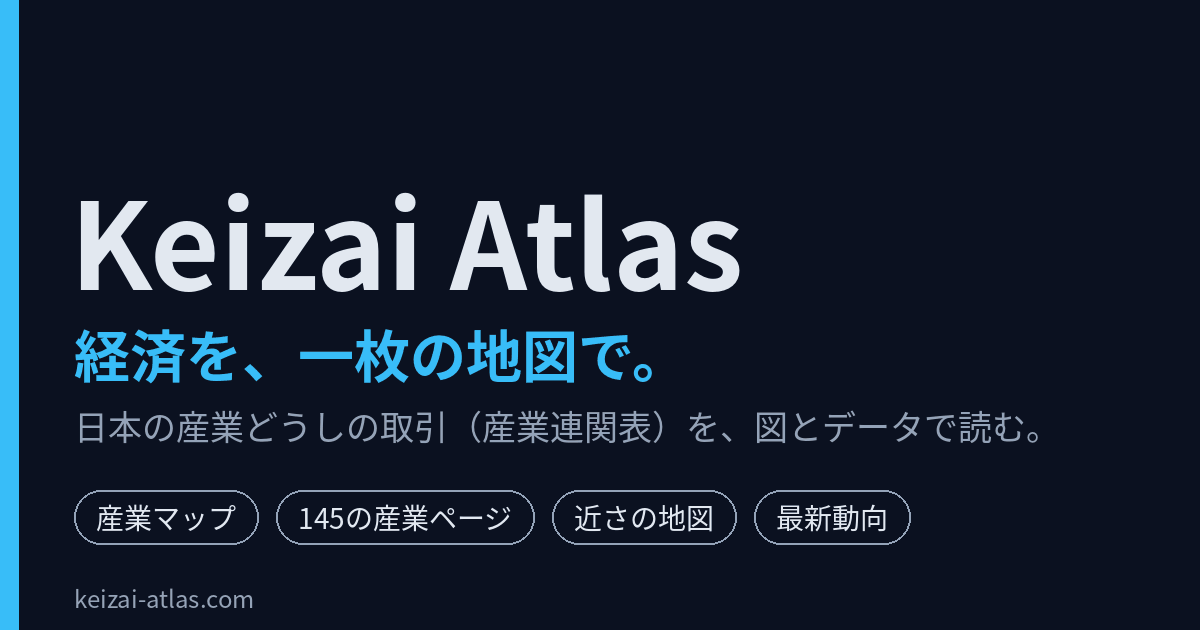
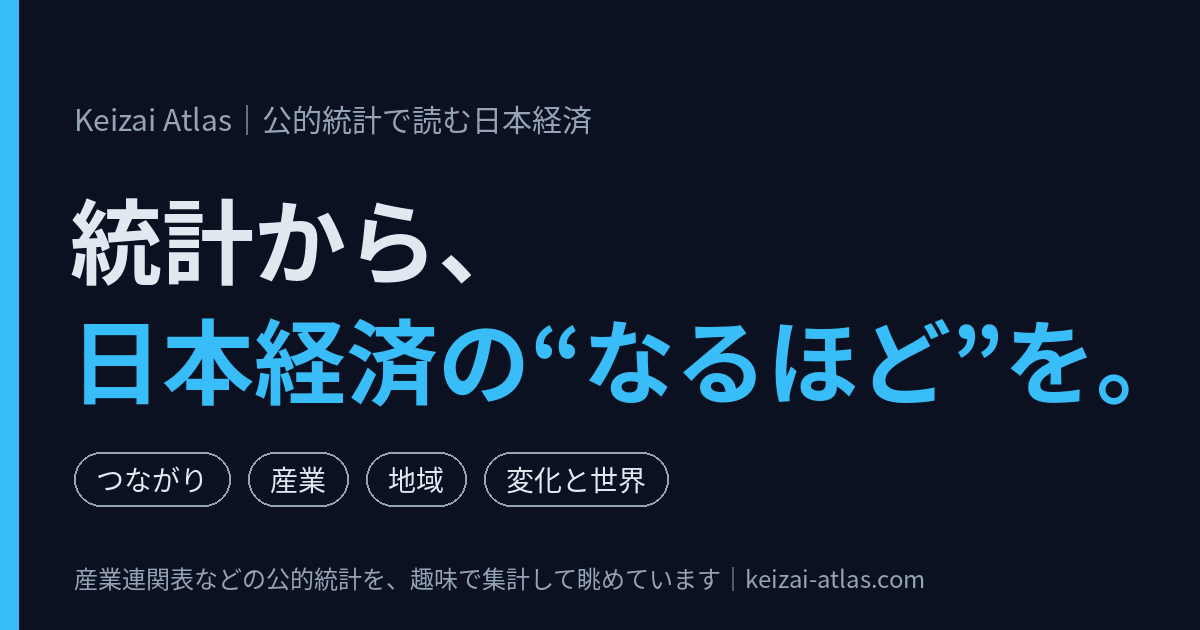
手書きの数値をデータ計算に統一、トップの共有画像を更新 (#43)
Claude-Session: https://claude.ai/code/session_01LjQEtywVAcAdYnRRezMix4

diff --git a/pages/index.html b/pages/index.html
@@ -91,8 +91,8 @@
     </article>
     <article class="ins-slide" role="group" aria-roledescription="スライド" aria-label="4 / 5 世界">
      <p class="ins-lens">世界</p>
-     <h2 class="m-0"><span class="ins-lead">外注に使う割合は、米国の約半分以下</span><span class="ins-big t">米20% / 日8〜9%</span><span class="ins-tail">仕入れに占める専門・事業支援サービスの割合（2022年）</span></h2>
-     <p class="ins-mean">つまり、仕入れの中で専門・事業支援サービスが占める割合は、日本は米国の半分以下です。独16%、韓国は日本と同水準です。</p>
+     <h2 class="m-0"><span class="ins-lead">外注に使う割合は、日本は米国の{{icio_out_half}}</span><span class="ins-big t">米{{icio_out_usa}}% / 日{{icio_out_jpn}}%</span><span class="ins-tail">仕入れに占める専門・事業支援サービスの割合（{{icio_y1}}年）</span></h2>
+     <p class="ins-mean">つまり、産業が仕入れに使うお金のうち、法務・会計・コンサル・広告・人材などの専門サービスに回る割合が、日本は米国より小さいということです。ドイツは{{icio_out_deu}}%、韓国は{{icio_out_kor}}%です。</p>
      <p class="ins-src">出典：OECD ICIO（国際産業連関表）</p>
      <a class="ins-more" href="international.html#outsourcing">詳しく見る →</a>
     </article>
@@ -108,7 +108,7 @@
     <div class="ins-v map" data-v="0"><div style="position:absolute;inset:0"><div id="pm-map" data-prefmap="hero" data-k="35" style="width:100%;height:100%" role="img" aria-label="都道府県を輸送機械の産出額の高さで表した、ゆっくり回る日本の立体地図"></div></div><div class="ins-legend"><span>高さ＝産出額</span><span>色＝集中度</span><i aria-hidden="true"></i></div></div>
     <div class="ins-v" data-v="1"><svg viewBox="0 0 400 300" role="img" aria-label="海外へのデジタル支払いの棒グラフ。{{bp_y0}}年は{{bp_pay0}}兆円、{{bp_y1}}年は{{bp_pay1}}兆円" data-vals="{{bp_pay0}},{{bp_pay1}}" data-base="250" data-maxh="170"><text class="ins-cap" x="40" y="28">海外へのデジタル支払い（兆円）</text><line class="ins-ax" x1="40" y1="250" x2="360" y2="250"/><rect class="ins-bar m b" x="85" y="250" width="90" height="0" rx="4"/><rect class="ins-bar b" x="225" y="250" width="90" height="0" rx="4"/><text class="ins-tv bl" x="130" y="240" text-anchor="middle">{{bp_pay0}}</text><text class="ins-tv bl" x="270" y="240" text-anchor="middle">{{bp_pay1}}</text><text class="ins-tx" x="130" y="272" text-anchor="middle">{{bp_y0}}年</text><text class="ins-tx" x="270" y="272" text-anchor="middle">{{bp_y1}}年</text></svg></div>
     <div class="ins-v" data-v="2"><svg viewBox="0 0 400 300" role="img" aria-label="原油の輸入の棒グラフ。{{tr_y0}}年を100として、{{tr_y1}}年の量は{{q_crude}}%、円建て単価は約{{p_crude}}倍" data-q="{{q_crude}}" data-p="{{p_crude}}" data-ref="100" data-base="250" data-maxh="170"><text class="ins-cap" x="40" y="28">原油の輸入（{{tr_y0}}年＝100）</text><line class="ins-ax" x1="40" y1="250" x2="360" y2="250"/><line class="ins-ref rf" x1="40" x2="360" y1="250" y2="250"/><text class="ins-cap rt" x="360" y="240" text-anchor="end">{{tr_y0}}年</text><rect class="ins-bar m b" x="85" y="250" width="90" height="0" rx="4"/><rect class="ins-bar b" x="225" y="250" width="90" height="0" rx="4"/><text class="ins-tv bl" x="130" y="240" text-anchor="middle">{{q_crude}}%</text><text class="ins-tv bl" x="270" y="240" text-anchor="middle">約{{p_crude}}倍</text><text class="ins-tx" x="130" y="272" text-anchor="middle">輸入量</text><text class="ins-tx" x="270" y="272" text-anchor="middle">円建ての単価</text></svg></div>
-    <div class="ins-v" data-v="3"><svg viewBox="0 0 400 300" role="img" aria-label="仕入れに占める専門・事業支援サービスの割合（2022年）。米国20%、日本8〜9%" data-vals="20,8.5" data-dir="h"><text class="ins-cap" x="30" y="40">専門・事業支援サービスの割合（2022年）</text><line class="ins-ax" x1="90" y1="70" x2="90" y2="230"/><text class="ins-tx" x="76" y="123" text-anchor="end">米国</text><text class="ins-tx" x="76" y="193" text-anchor="end">日本</text><rect class="ins-bar m b" x="90" y="100" width="0" height="40" rx="4"/><rect class="ins-bar b" x="90" y="170" width="0" height="40" rx="4"/><text class="ins-tv bl" x="100" y="128">20%</text><text class="ins-tv bl" x="100" y="198">8〜9%</text></svg></div>
+    <div class="ins-v" data-v="3"><svg viewBox="0 0 400 300" role="img" aria-label="仕入れに占める専門・事業支援サービスの割合（{{icio_y1}}年）。米国{{icio_out_usa}}%、日本{{icio_out_jpn}}%" data-vals="{{icio_out_usa1}},{{icio_out_jpn1}}" data-dir="h"><text class="ins-cap" x="30" y="40">専門・事業支援サービスの割合（{{icio_y1}}年）</text><line class="ins-ax" x1="90" y1="70" x2="90" y2="230"/><text class="ins-tx" x="76" y="123" text-anchor="end">米国</text><text class="ins-tx" x="76" y="193" text-anchor="end">日本</text><rect class="ins-bar m b" x="90" y="100" width="0" height="40" rx="4"/><rect class="ins-bar b" x="90" y="170" width="0" height="40" rx="4"/><text class="ins-tv bl" x="100" y="128">{{icio_out_usa}}%</text><text class="ins-tv bl" x="100" y="198">{{icio_out_jpn}}%</text></svg></div>
     <div class="ins-v net" data-v="4"><div id="ins-net" style="position:absolute;inset:0" role="img" aria-label="37の産業を円、取引を線で表したネットワーク。光っている円が、取引の中心にある産業"></div><div class="ins-legend"><span>円＝産業（大きさ＝生産額）</span><span>光る線＝その産業から出る取引</span></div></div>
    </div>
   </div>
@@ -140,8 +140,8 @@
  <a href="latest.html#digital-pay" class="card bg-base-100 border border-base-300 hover:border-primary transition"><div class="card-body gap-1 p-5"><h3 class="font-bold leading-snug">海外へのデジタル支払い</h3><p class="text-xl text-primary"><b>{{bp_pay0}}兆円→{{bp_pay1}}兆円</b></p><p class="text-sm text-base-content/80">{{bp_y0}}年→{{bp_y1}}年。通信・コンピュータ・情報サービスの国際収支（支払い）。約{{bp_pay_x}}倍です。</p><p class="text-xs text-base-content/50 mt-1">出典：国際収支 →</p></div></a>
  <a href="latest.html#energy-import" class="card bg-base-100 border border-base-300 hover:border-primary transition"><div class="card-body gap-1 p-5"><h3 class="font-bold leading-snug">エネルギー輸入：量は減り、単価は上がった</h3><p class="text-xl text-primary"><b>原油の輸入量 {{q_crude}}%</b></p><p class="text-sm text-base-content/80">{{tr_y0}}年比（{{tr_y1}}年）。円建ての単価は約{{p_crude}}倍で、輸入額の増減の大半は単価の動きです。</p><p class="text-xs text-base-content/50 mt-1">出典：貿易統計 →</p></div></a>
  <a href="latest.html#activity" class="card bg-base-100 border border-base-300 hover:border-primary transition"><div class="card-body gap-1 p-5"><h3 class="font-bold leading-snug">技術サービス：価格は上がり、量は減った</h3><p class="text-xl text-primary"><b>価格 {{sppi_tech_p0}}%、活動量 {{meti_tech_p0}}%</b></p><p class="text-sm text-base-content/80">{{base}}→{{sppi_last}}。需要に供給が追いつかない状態の可能性があります（仮説）。</p><p class="text-xs text-base-content/50 mt-1">出典：SPPI・第3次産業活動指数 →</p></div></a>
- <a href="international.html#outsourcing" class="card bg-base-100 border border-base-300 hover:border-primary transition"><div class="card-body gap-1 p-5"><h3 class="font-bold leading-snug">外注に使う割合は、米国の約半分以下</h3><p class="text-xl text-primary"><b>米20% / 日8〜9%</b></p><p class="text-sm text-base-content/80">仕入れに占める専門・事業支援サービスの割合（2022年）。独16%、韓国は日本と同水準です。</p><p class="text-xs text-base-content/50 mt-1">出典：OECD ICIO →</p></div></a>
- <a href="international.html#digital" class="card bg-base-100 border border-base-300 hover:border-primary transition"><div class="card-body gap-1 p-5"><h3 class="font-bold leading-snug">デジタルの仕入れは、輸入頼みが進んだ</h3><p class="text-xl text-primary"><b>輸入比率 8.7%→13.0%</b></p><p class="text-sm text-base-content/80">日本、2016年→2022年。デジタル関連の仕入れのうち、輸入の割合です。</p><p class="text-xs text-base-content/50 mt-1">出典：OECD ICIO →</p></div></a>
+ <a href="international.html#outsourcing" class="card bg-base-100 border border-base-300 hover:border-primary transition"><div class="card-body gap-1 p-5"><h3 class="font-bold leading-snug">外注に使う割合は、日本は米国の{{icio_out_half}}</h3><p class="text-xl text-primary"><b>米{{icio_out_usa}}% / 日{{icio_out_jpn}}%</b></p><p class="text-sm text-base-content/80">仕入れに占める専門・事業支援サービスの割合（{{icio_y1}}年）。ドイツ{{icio_out_deu}}%、韓国{{icio_out_kor}}%です。</p><p class="text-xs text-base-content/50 mt-1">出典：OECD ICIO →</p></div></a>
+ <a href="international.html#digital" class="card bg-base-100 border border-base-300 hover:border-primary transition"><div class="card-body gap-1 p-5"><h3 class="font-bold leading-snug">デジタルの仕入れは、輸入頼みが進んだ</h3><p class="text-xl text-primary"><b>輸入比率 {{icio_digimp0}}%→{{icio_digimp1}}%</b></p><p class="text-sm text-base-content/80">日本、{{icio_y0}}年→{{icio_y1}}年。デジタル関連の仕入れのうち、輸入の割合です。</p><p class="text-xs text-base-content/50 mt-1">出典：OECD ICIO →</p></div></a>
  <a href="similarity.html#cohesion" class="card bg-base-100 border border-base-300 hover:border-primary transition"><div class="card-body gap-1 p-5"><h3 class="font-bold leading-snug">「裏方」候補の4グループ、取引の相手が似ている</h3><p class="text-xl text-primary"><b>4つとも似た者どうし</b></p><p class="text-sm text-base-content/80">取引の相手の似かたをランダムと比べると、どれもずっと近い結果でした。うち1つは、近さを見て組み替えたものです。</p><p class="text-xs text-base-content/50 mt-1">出典：産業連関表 →</p></div></a>
 </div></section>
 <section class="max-w-5xl mx-auto px-4 mt-10"><div role="alert" class="alert alert-warning"><span><b>ご注意：</b>ストーリー・グループは筆者の<b>仮説</b>で、統計から確定できる事実ではありません。2022年値は延長産業連関表（推計表）で、基本表とは定義が異なります。</span></div></section>

diff --git a/site/index.html b/site/index.html
@@ -102,8 +102,8 @@
     </article>
     <article class="ins-slide" role="group" aria-roledescription="スライド" aria-label="4 / 5 世界">
      <p class="ins-lens">世界</p>
-     <h2 class="m-0"><span class="ins-lead">外注に使う割合は、米国の約半分以下</span><span class="ins-big t">米20% / 日8〜9%</span><span class="ins-tail">仕入れに占める専門・事業支援サービスの割合（2022年）</span></h2>
-     <p class="ins-mean">つまり、仕入れの中で専門・事業支援サービスが占める割合は、日本は米国の半分以下です。独16%、韓国は日本と同水準です。</p>
+     <h2 class="m-0"><span class="ins-lead">外注に使う割合は、日本は米国の半分以下</span><span class="ins-big t">米20% / 日8%</span><span class="ins-tail">仕入れに占める専門・事業支援サービスの割合（2022年）</span></h2>
+     <p class="ins-mean">つまり、産業が仕入れに使うお金のうち、法務・会計・コンサル・広告・人材などの専門サービスに回る割合が、日本は米国より小さいということです。ドイツは16%、韓国は8%です。</p>
      <p class="ins-src">出典：OECD <a class="underline decoration-dotted underline-offset-4 hover:text-primary" href="glossary.html#icio">ICIO</a>（国際産業連関表）</p>
      <a class="ins-more" href="international.html#outsourcing">詳しく見る →</a>
     </article>
@@ -119,7 +119,7 @@
     <div class="ins-v map" data-v="0"><div style="position:absolute;inset:0"><div id="pm-map" data-prefmap="hero" data-k="35" style="width:100%;height:100%" role="img" aria-label="都道府県を輸送機械の産出額の高さで表した、ゆっくり回る日本の立体地図"></div></div><div class="ins-legend"><span>高さ＝産出額</span><span>色＝集中度</span><i aria-hidden="true"></i></div></div>
     <div class="ins-v" data-v="1"><svg viewBox="0 0 400 300" role="img" aria-label="海外へのデジタル支払いの棒グラフ。2019年は2.4兆円、2025年は4.6兆円" data-vals="2.4,4.6" data-base="250" data-maxh="170"><text class="ins-cap" x="40" y="28">海外へのデジタル支払い（兆円）</text><line class="ins-ax" x1="40" y1="250" x2="360" y2="250"/><rect class="ins-bar m b" x="85" y="250" width="90" height="0" rx="4"/><rect class="ins-bar b" x="225" y="250" width="90" height="0" rx="4"/><text class="ins-tv bl" x="130" y="240" text-anchor="middle">2.4</text><text class="ins-tv bl" x="270" y="240" text-anchor="middle">4.6</text><text class="ins-tx" x="130" y="272" text-anchor="middle">2019年</text><text class="ins-tx" x="270" y="272" text-anchor="middle">2025年</text></svg></div>
     <div class="ins-v" data-v="2"><svg viewBox="0 0 400 300" role="img" aria-label="原油の輸入の棒グラフ。2019年を100として、2025年の量は−21%、円建て単価は約1.5倍" data-q="−21" data-p="1.5" data-ref="100" data-base="250" data-maxh="170"><text class="ins-cap" x="40" y="28">原油の輸入（2019年＝100）</text><line class="ins-ax" x1="40" y1="250" x2="360" y2="250"/><line class="ins-ref rf" x1="40" x2="360" y1="250" y2="250"/><text class="ins-cap rt" x="360" y="240" text-anchor="end">2019年</text><rect class="ins-bar m b" x="85" y="250" width="90" height="0" rx="4"/><rect class="ins-bar b" x="225" y="250" width="90" height="0" rx="4"/><text class="ins-tv bl" x="130" y="240" text-anchor="middle">−21%</text><text class="ins-tv bl" x="270" y="240" text-anchor="middle">約1.5倍</text><text class="ins-tx" x="130" y="272" text-anchor="middle">輸入量</text><text class="ins-tx" x="270" y="272" text-anchor="middle">円建ての単価</text></svg></div>
-    <div class="ins-v" data-v="3"><svg viewBox="0 0 400 300" role="img" aria-label="仕入れに占める専門・事業支援サービスの割合（2022年）。米国20%、日本8〜9%" data-vals="20,8.5" data-dir="h"><text class="ins-cap" x="30" y="40">専門・事業支援サービスの割合（2022年）</text><line class="ins-ax" x1="90" y1="70" x2="90" y2="230"/><text class="ins-tx" x="76" y="123" text-anchor="end">米国</text><text class="ins-tx" x="76" y="193" text-anchor="end">日本</text><rect class="ins-bar m b" x="90" y="100" width="0" height="40" rx="4"/><rect class="ins-bar b" x="90" y="170" width="0" height="40" rx="4"/><text class="ins-tv bl" x="100" y="128">20%</text><text class="ins-tv bl" x="100" y="198">8〜9%</text></svg></div>
+    <div class="ins-v" data-v="3"><svg viewBox="0 0 400 300" role="img" aria-label="仕入れに占める専門・事業支援サービスの割合（2022年）。米国20%、日本8%" data-vals="20.4,8.2" data-dir="h"><text class="ins-cap" x="30" y="40">専門・事業支援サービスの割合（2022年）</text><line class="ins-ax" x1="90" y1="70" x2="90" y2="230"/><text class="ins-tx" x="76" y="123" text-anchor="end">米国</text><text class="ins-tx" x="76" y="193" text-anchor="end">日本</text><rect class="ins-bar m b" x="90" y="100" width="0" height="40" rx="4"/><rect class="ins-bar b" x="90" y="170" width="0" height="40" rx="4"/><text class="ins-tv bl" x="100" y="128">20%</text><text class="ins-tv bl" x="100" y="198">8%</text></svg></div>
     <div class="ins-v net" data-v="4"><div id="ins-net" style="position:absolute;inset:0" role="img" aria-label="37の産業を円、取引を線で表したネットワーク。光っている円が、取引の中心にある産業"></div><div class="ins-legend"><span>円＝産業（大きさ＝生産額）</span><span>光る線＝その産業から出る取引</span></div></div>
    </div>
   </div>
@@ -151,7 +151,7 @@
  <a href="latest.html#digital-pay" class="card bg-base-100 border border-base-300 hover:border-primary transition"><div class="card-body gap-1 p-5"><h3 class="font-bold leading-snug">海外へのデジタル支払い</h3><p class="text-xl text-primary"><b>2.4兆円→4.6兆円</b></p><p class="text-sm text-base-content/80">2019年→2025年。通信・コンピュータ・情報サービスの国際収支（支払い）。約1.9倍です。</p><p class="text-xs text-base-content/50 mt-1">出典：国際収支 →</p></div></a>
  <a href="latest.html#energy-import" class="card bg-base-100 border border-base-300 hover:border-primary transition"><div class="card-body gap-1 p-5"><h3 class="font-bold leading-snug">エネルギー輸入：量は減り、単価は上がった</h3><p class="text-xl text-primary"><b>原油の輸入量 −21%</b></p><p class="text-sm text-base-content/80">2019年比（2025年）。円建ての単価は約1.5倍で、輸入額の増減の大半は単価の動きです。</p><p class="text-xs text-base-content/50 mt-1">出典：貿易統計 →</p></div></a>
  <a href="latest.html#activity" class="card bg-base-100 border border-base-300 hover:border-primary transition"><div class="card-body gap-1 p-5"><h3 class="font-bold leading-snug">技術サービス：価格は上がり、量は減った</h3><p class="text-xl text-primary"><b>価格 +21%、活動量 −5%</b></p><p class="text-sm text-base-content/80">2022年12月→2026年8月。需要に供給が追いつかない状態の可能性があります（仮説）。</p><p class="text-xs text-base-content/50 mt-1">出典：SPPI・第3次産業活動指数 →</p></div></a>
- <a href="international.html#outsourcing" class="card bg-base-100 border border-base-300 hover:border-primary transition"><div class="card-body gap-1 p-5"><h3 class="font-bold leading-snug">外注に使う割合は、米国の約半分以下</h3><p class="text-xl text-primary"><b>米20% / 日8〜9%</b></p><p class="text-sm text-base-content/80">仕入れに占める専門・事業支援サービスの割合（2022年）。独16%、韓国は日本と同水準です。</p><p class="text-xs text-base-content/50 mt-1">出典：OECD ICIO →</p></div></a>
+ <a href="international.html#outsourcing" class="card bg-base-100 border border-base-300 hover:border-primary transition"><div class="card-body gap-1 p-5"><h3 class="font-bold leading-snug">外注に使う割合は、日本は米国の半分以下</h3><p class="text-xl text-primary"><b>米20% / 日8%</b></p><p class="text-sm text-base-content/80">仕入れに占める専門・事業支援サービスの割合（2022年）。ドイツ16%、韓国8%です。</p><p class="text-xs text-base-content/50 mt-1">出典：OECD ICIO →</p></div></a>
  <a href="international.html#digital" class="card bg-base-100 border border-base-300 hover:border-primary transition"><div class="card-body gap-1 p-5"><h3 class="font-bold leading-snug">デジタルの仕入れは、輸入頼みが進んだ</h3><p class="text-xl text-primary"><b>輸入比率 8.7%→13.0%</b></p><p class="text-sm text-base-content/80">日本、2016年→2022年。デジタル関連の仕入れのうち、輸入の割合です。</p><p class="text-xs text-base-content/50 mt-1">出典：OECD ICIO →</p></div></a>
  <a href="similarity.html#cohesion" class="card bg-base-100 border border-base-300 hover:border-primary transition"><div class="card-body gap-1 p-5"><h3 class="font-bold leading-snug">「裏方」候補の4グループ、取引の相手が似ている</h3><p class="text-xl text-primary"><b>4つとも似た者どうし</b></p><p class="text-sm text-base-content/80">取引の相手の似かたをランダムと比べると、どれもずっと近い結果でした。うち1つは、近さを見て組み替えたものです。</p><p class="text-xs text-base-content/50 mt-1">出典：産業連関表 →</p></div></a>
 </div></section>

diff --git a/pages/international.html b/pages/international.html
@@ -5,16 +5,16 @@
 <section id="outsourcing" class="space-y-3 scroll-mt-20"><h2 class="text-2xl font-bold">1. 外注（専門・事業支援サービス）</h2>
 <p class="text-base-content/80">専門・科学技術サービス（法務・会計・コンサル・研究開発・広告など）と、事業支援サービス（人材派遣・警備・清掃・レンタルなど）の仕入れ比率。</p>
 <div class="card bg-base-100 border border-base-300"><div class="card-body"><div id="c-out"></div></div></div>
-<p class="text-sm text-base-content/80"><b>読み取り:</b> 米国は約20%、ドイツ約16%に対し、日本は8〜9%、韓国も同水準、中国は5〜6%です。日本は「外注にお金が流れる国」とは言えず、国内版で大きく見える対事業所サービスは、ICIOでは定義が狭いために小さく出ている可能性があります（仮説）。</p></section>
+<p class="text-sm text-base-content/80"><b>読み取り:</b> {{icio_y1}}年は、米国{{icio_out_usa}}%、ドイツ{{icio_out_deu}}%に対し、日本は{{icio_out_jpn}}%、韓国{{icio_out_kor}}%、中国{{icio_out_chn}}%です。{{icio_y0}}〜{{icio_y1}}年を通じて、日本は{{icio_out_jpn_rng}}%の範囲でした。日本は「外注にお金が流れる国」とは言えず、国内版で大きく見える対事業所サービスは、ICIOでは定義が狭いために小さく出ている可能性があります（仮説）。</p></section>
 <section id="digital" class="space-y-3 scroll-mt-20"><h2 class="text-2xl font-bold">2. デジタル（情報通信・情報サービス）</h2>
 <p class="text-base-content/80">出版・放送、通信、情報サービス（IT・クラウド等）の仕入れ比率と、そのうち輸入の比率。</p>
 <div class="grid gap-4 md:grid-cols-2"><div class="card bg-base-100 border border-base-300"><div class="card-body"><h3 class="font-bold">仕入れに占める割合（%）</h3><div id="c-dig"></div></div></div>
 <div class="card bg-base-100 border border-base-300"><div class="card-body"><h3 class="font-bold">そのうち輸入の割合（%）</h3><div id="c-digimp"></div></div></div></div>
-<p class="text-sm text-base-content/80"><b>読み取り:</b> 日本のデジタル仕入れ比率は2016〜2022年でほぼ横ばい（2020年は分母の縮小で一時的に高く出る）ですが、<b>輸入比率は8.7%から13.0%に上昇</b>しました。韓国・ドイツも上昇しています。海外のクラウドやソフトウェアへの支払いが増えた可能性があります（仮説）。2023年以降の生成AIの影響は、この表には入っていません。</p></section>
+<p class="text-sm text-base-content/80"><b>読み取り:</b> 日本のデジタル仕入れ比率は{{icio_y0}}〜{{icio_y1}}年でほぼ横ばい（2020年は分母の縮小で一時的に高く出る）ですが、<b>輸入比率は{{icio_digimp0}}%から{{icio_digimp1}}%に上昇</b>しました。韓国・ドイツも上昇しています。海外のクラウドやソフトウェアへの支払いが増えた可能性があります（仮説）。2023年以降の生成AIの影響は、この表には入っていません。</p></section>
 <section id="energy" class="space-y-3 scroll-mt-20"><h2 class="text-2xl font-bold">3. エネルギー（石炭・石油ガス・石油製品・電気ガス）</h2>
 <div class="grid gap-4 md:grid-cols-2"><div class="card bg-base-100 border border-base-300"><div class="card-body"><h3 class="font-bold">仕入れに占める割合（%）</h3><div id="c-en"></div></div></div>
 <div class="card bg-base-100 border border-base-300"><div class="card-body"><h3 class="font-bold">そのうち輸入の割合（%）</h3><div id="c-enimp"></div></div></div></div>
-<p class="text-sm text-base-content/80"><b>読み取り:</b> 2022年は、価格高騰でエネルギーの比率が各国で跳ね上がりました（日本 7.3%→11.5%、ドイツ 5.1%→8.7%、2020→2022年）。日本の輸入比率は31%→47%と急上昇し、米国（14%）・中国（15%）との差が開きました。ドイツ（35%）は日本より低い水準です。</p></section>
+<p class="text-sm text-base-content/80"><b>読み取り:</b> {{icio_y1}}年は、価格高騰でエネルギーの比率が各国で跳ね上がりました（日本 {{icio_en_jpn0}}%→{{icio_en_jpn1}}%、ドイツ {{icio_en_deu0}}%→{{icio_en_deu1}}%、{{icio_en_y0}}→{{icio_y1}}年）。日本の輸入比率は{{icio_enimp_jpn0}}%→{{icio_enimp_jpn}}%と急上昇し、米国（{{icio_enimp_usa}}%）・中国（{{icio_enimp_chn}}%）との差が開きました。ドイツ（{{icio_enimp_deu}}%）は日本より低い水準です。</p></section>
 <section class="text-sm text-base-content/70 space-y-1"><h2 class="text-lg font-bold text-base-content">方法と注意</h2>
 <ul class="list-disc pl-6"><li>出典：OECD Inter-Country Input-Output (ICIO) Tables, 2025 edition（regular ICIO）を筆者が集計。加工・解釈は筆者によるもので、OECDが作成・保証したものではありません。</li>
 <li>各国の産業（50部門）の列に対する、全世界の売り手からの仕入れを合計し、部門グループごとの割合を計算しています。名目値のため、価格変動の影響を含みます。</li>

diff --git a/pipeline/explorer_template.html b/pipeline/explorer_template.html
@@ -300,11 +300,15 @@ function renderOverview(){
   let ins="";
   if(CH()){
     const top=D.edges.filter(e=>e.v20!=null&&e.v22!=null).sort((a,b)=>(b.v22-b.v20)-(a.v22-a.v20)).slice(0,3);
-    ins=`<div class="story">2020→2022年に最も増えた取引は、${top.map(e=>`<a href="#" data-e="${D.edges.indexOf(e)}">${N[e.s].name}→${N[e.t].name}</a>(${fmt(e.v20,1)}→${fmt(e.v22,1)}兆円)`).join("、")}。エネルギーの値上がりが目立ちます。</div>
-    <div class="story">2022年の名目は2020年比で+15.5%、価格の影響を除いた実質では+8.0%です。値上がりが大きかったのは石油・石炭製品、鉱業、電気・ガスなどです。<small>2021・2022年は経産省の延長表(推計)。2023年以降、生成AIの実用化などは含みません。</small></div>`;
+    const EN=["06","21","46"], enHit=top.some(e=>EN.includes(e.s)||EN.includes(e.t));   // 鉱業・石油石炭製品・電気ガス
+    const W=D.nodes.filter(n=>n.o20x&&n.o22), s20=W.reduce((a,n)=>a+n.o20x,0), s22=W.reduce((a,n)=>a+n.o22,0);
+    const sReal=D.nodes.filter(n=>n.o20x&&n.rg!=null).reduce((a,n)=>a+n.o20x*(1+n.rg/100),0);
+    const pcTop=D.nodes.filter(n=>n.pc!=null).sort((a,b)=>b.pc-a.pc).slice(0,3).map(n=>n.name).join("、");
+    ins=`<div class="story">2020→2022年に最も増えた取引は、${top.map(e=>`<a href="#" data-e="${D.edges.indexOf(e)}">${N[e.s].name}→${N[e.t].name}</a>(${fmt(e.v20,1)}→${fmt(e.v22,1)}兆円)`).join("、")}。${enHit?"エネルギー関連の取引が含まれています。":""}</div>
+    <div class="story">2022年の生産額の合計は、2020年比で名目${sgn((s22/s20-1)*100,1)}%、価格の影響を除いた実質では${sgn((sReal/s20-1)*100,1)}%です。値上がりが大きかったのは${pcTop}などです。<small>2021・2022年は経産省の延長表(推計)。2023年以降、生成AIの実用化などは含みません。</small></div>`;
   } else {
     const big=D.nodes.filter(n=>n.out>=15).sort((a,b)=>b.cagr-a.cagr);
-    ins=`<div class="story">上位20本の取引のうち<b>${hub[1]}本</b>が「${N[hub[0]].name}」から出ています。人材・リース・警備・広告などの『外注の受け皿』が経済の中心にいます。</div>
+    ins=`<div class="story">上位20本の取引のうち<b>${hub[1]}本</b>が「${N[hub[0]].name}」から出ています。${hub[0]==="66"?"人材・リース・警備・広告などの『外注の受け皿』が、取引の中心にいます。":""}</div>
     <div class="story">生産額15兆円以上の部門で、2011→2020年の実質成長が大きいのは:${big.slice(0,4).map(n=>`<a href="#" data-n="${n.id}">${n.name}(${sgn(n.cagr)}%)</a>`).join("、")}。</div>`;
   }
   $("panel").innerHTML=`<h2>全体の見方</h2>

diff --git a/site/explorer.html b/site/explorer.html
@@ -313,11 +313,15 @@ function renderOverview(){
   let ins="";
   if(CH()){
     const top=D.edges.filter(e=>e.v20!=null&&e.v22!=null).sort((a,b)=>(b.v22-b.v20)-(a.v22-a.v20)).slice(0,3);
-    ins=`<div class="story">2020→2022年に最も増えた取引は、${top.map(e=>`<a href="#" data-e="${D.edges.indexOf(e)}">${N[e.s].name}→${N[e.t].name}</a>(${fmt(e.v20,1)}→${fmt(e.v22,1)}兆円)`).join("、")}。エネルギーの値上がりが目立ちます。</div>
-    <div class="story">2022年の名目は2020年比で+15.5%、価格の影響を除いた実質では+8.0%です。値上がりが大きかったのは石油・石炭製品、鉱業、電気・ガスなどです。<small>2021・2022年は経産省の延長表(推計)。2023年以降、生成AIの実用化などは含みません。</small></div>`;
+    const EN=["06","21","46"], enHit=top.some(e=>EN.includes(e.s)||EN.includes(e.t));   // 鉱業・石油石炭製品・電気ガス
+    const W=D.nodes.filter(n=>n.o20x&&n.o22), s20=W.reduce((a,n)=>a+n.o20x,0), s22=W.reduce((a,n)=>a+n.o22,0);
+    const sReal=D.nodes.filter(n=>n.o20x&&n.rg!=null).reduce((a,n)=>a+n.o20x*(1+n.rg/100),0);
+    const pcTop=D.nodes.filter(n=>n.pc!=null).sort((a,b)=>b.pc-a.pc).slice(0,3).map(n=>n.name).join("、");
+    ins=`<div class="story">2020→2022年に最も増えた取引は、${top.map(e=>`<a href="#" data-e="${D.edges.indexOf(e)}">${N[e.s].name}→${N[e.t].name}</a>(${fmt(e.v20,1)}→${fmt(e.v22,1)}兆円)`).join("、")}。${enHit?"エネルギー関連の取引が含まれています。":""}</div>
+    <div class="story">2022年の生産額の合計は、2020年比で名目${sgn((s22/s20-1)*100,1)}%、価格の影響を除いた実質では${sgn((sReal/s20-1)*100,1)}%です。値上がりが大きかったのは${pcTop}などです。<small>2021・2022年は経産省の延長表(推計)。2023年以降、生成AIの実用化などは含みません。</small></div>`;
   } else {
     const big=D.nodes.filter(n=>n.out>=15).sort((a,b)=>b.cagr-a.cagr);
-    ins=`<div class="story">上位20本の取引のうち<b>${hub[1]}本</b>が「${N[hub[0]].name}」から出ています。人材・リース・警備・広告などの『外注の受け皿』が経済の中心にいます。</div>
+    ins=`<div class="story">上位20本の取引のうち<b>${hub[1]}本</b>が「${N[hub[0]].name}」から出ています。${hub[0]==="66"?"人材・リース・警備・広告などの『外注の受け皿』が、取引の中心にいます。":""}</div>
     <div class="story">生産額15兆円以上の部門で、2011→2020年の実質成長が大きいのは:${big.slice(0,4).map(n=>`<a href="#" data-n="${n.id}">${n.name}(${sgn(n.cagr)}%)</a>`).join("、")}。</div>`;
   }
   $("panel").innerHTML=`<h2>全体の見方</h2>

diff --git a/site/international.html b/site/international.html
@@ -16,7 +16,7 @@
 <section id="outsourcing" class="space-y-3 scroll-mt-20"><h2 class="text-2xl font-bold">1. 外注（専門・事業支援サービス）</h2>
 <p class="text-base-content/80">専門・科学技術サービス（法務・会計・コンサル・研究開発・広告など）と、事業支援サービス（人材派遣・警備・清掃・レンタルなど）の仕入れ比率。</p>
 <div class="card bg-base-100 border border-base-300"><div class="card-body"><div id="c-out"></div></div></div>
-<p class="text-sm text-base-content/80"><b>読み取り:</b> 米国は約20%、ドイツ約16%に対し、日本は8〜9%、韓国も同水準、中国は5〜6%です。日本は「外注にお金が流れる国」とは言えず、国内版で大きく見える対事業所サービスは、ICIOでは定義が狭いために小さく出ている可能性があります（仮説）。</p></section>
+<p class="text-sm text-base-content/80"><b>読み取り:</b> 2022年は、米国20%、ドイツ16%に対し、日本は8%、韓国8%、中国6%です。2016〜2022年を通じて、日本は8〜10%の範囲でした。日本は「外注にお金が流れる国」とは言えず、国内版で大きく見える対事業所サービスは、ICIOでは定義が狭いために小さく出ている可能性があります（仮説）。</p></section>
 <section id="digital" class="space-y-3 scroll-mt-20"><h2 class="text-2xl font-bold">2. デジタル（情報通信・情報サービス）</h2>
 <p class="text-base-content/80">出版・放送、通信、情報サービス（IT・クラウド等）の仕入れ比率と、そのうち輸入の比率。</p>
 <div class="grid gap-4 md:grid-cols-2"><div class="card bg-base-100 border border-base-300"><div class="card-body"><h3 class="font-bold">仕入れに占める割合（%）</h3><div id="c-dig"></div></div></div>

diff --git a/scripts/derive.py b/scripts/derive.py
@@ -48,6 +48,23 @@ def metrics():
         M[f"q_{key}"]=sgn(t[f"{key}_q_idx"][-1]-100,0); M[f"p_{key}"]=f"{F(t[f'{key}_p_idx'][-1]/100,1)}"
     ytd=t["fuel_ytd"]; M["ytd_m"]=ytd["last_month"]; M["ytd_1"],M["ytd_0"]=f"{F(ytd['v2026'],1)}",f"{F(ytd['v2025'],1)}"; M["ytd_pct"]=f"{F((ytd['v2026']/ytd['v2025']-1)*100,0)}"
     M["pc_0"],M["pc_1"]=f"{F(t['pc_v'][0],1)}",f"{F(t['pc_v'][-1],1)}"; M["pc_pct"]=sgn((t['pc_v'][-1]/t['pc_v'][0]-1)*100,0); M["pc_px"]=f"{F(t['pc_p_idx'][-1]/100,1)}"
+    # --- 6. OECD ICIO(5か国)
+    import csv as _csv
+    rows=list(_csv.DictReader(open(R/"data/icio_summary_5countries.csv",encoding="utf-8")))
+    Y=sorted({r["year"] for r in rows}); y0,y1=Y[0],Y[-1]; M["icio_y0"],M["icio_y1"]=y0,y1
+    v=lambda c,y,k:float(next(r[k] for r in rows if r["country"]==c and r["year"]==y))
+    for c in ("JPN","USA","DEU","KOR","CHN"):
+        cl=c.lower(); xs=[v(c,y,"outsourcing_share_pct") for y in Y]
+        M[f"icio_out_{cl}"]=F(v(c,y1,"outsourcing_share_pct"),0)                       # 最新年の外注比率(%)
+        lo,hi=F(min(xs),0),F(max(xs),0); M[f"icio_out_{cl}_rng"]=lo if lo==hi else f"{lo}〜{hi}"   # 期間中の範囲
+        M[f"icio_out_{cl}1"]=F(v(c,y1,"outsourcing_share_pct"),1)
+        M[f"icio_enimp_{cl}"]=F(v(c,y1,"energy_import_share_pct"),0)
+    M["icio_out_half"]="半分以下" if v("JPN",y1,"outsourcing_share_pct")<0.5*v("USA",y1,"outsourcing_share_pct") else "半分程度"
+    M["icio_digimp0"],M["icio_digimp1"]=F(v("JPN",y0,"digital_import_share_pct"),1),F(v("JPN",y1,"digital_import_share_pct"),1)
+    M["icio_en_y0"]=str(int(y1)-2)
+    for c in ("JPN","DEU"):
+        M[f"icio_en_{c.lower()}0"],M[f"icio_en_{c.lower()}1"]=F(v(c,M["icio_en_y0"],"energy_share_pct"),1),F(v(c,y1,"energy_share_pct"),1)
+    M["icio_enimp_jpn0"]=F(v("JPN",M["icio_en_y0"],"energy_import_share_pct"),0)
     return M
 def render(text,M):
     import re

diff --git a/scripts/build_ogp.py b/scripts/build_ogp.py
@@ -49,12 +49,12 @@ def card(c):
     return im
 def top():
     im=Image.new("RGB",(W,H),BG); d=ImageDraw.Draw(im); d.rectangle([0,0,18,H],fill=(56,189,248))
-    d.text((70,150),"Keizai Atlas",font=font(FB,120),fill=FG); d.text((74,312),"経済を、一枚の地図で。",font=font(FB,56),fill=(56,189,248))
-    d.text((74,400),"日本の産業どうしの取引（産業連関表）を、図とデータで読む。",font=font(FR,34),fill=MUT)
+    d.text((74,96),"Keizai Atlas｜公的統計で読む日本経済",font=font(FR,30),fill=MUT)
+    d.text((70,170),"統計から、",font=font(FB,92),fill=FG); d.text((70,290),"日本経済の“なるほど”を。",font=font(FB,92),fill=(56,189,248))
     x=74
-    for lab in ("産業マップ","145の産業ページ","近さの地図","最新動向"):
-        w=d.textlength(lab,font=font(FR,28))+44; d.rounded_rectangle([x,490,x+w,544],radius=27,outline=MUT,width=2); d.text((x+22,517),lab,font=font(FR,28),fill=FG,anchor="lm"); x+=w+18
-    d.text((74,580),"keizai-atlas.com",font=font(FR,24),fill=MUT); return im
+    for lab in ("つながり","産業","地域","変化と世界"):
+        w=d.textlength(lab,font=font(FR,28))+44; d.rounded_rectangle([x,452,x+w,506],radius=27,outline=MUT,width=2); d.text((x+22,479),lab,font=font(FR,28),fill=FG,anchor="lm"); x+=w+18
+    d.text((74,560),"産業連関表などの公的統計を、趣味で集計して眺めています｜keizai-atlas.com",font=font(FR,24),fill=MUT); return im
 if __name__=="__main__":
     cards=json.loads((R/"data/ogp_cards.json").read_text(encoding="utf-8")); (S/"og").mkdir(exist_ok=True)
     q=lambda im:im.quantize(64,method=Image.Quantize.MEDIANCUT,dither=Image.Dither.NONE)

diff --git a/CLAUDE.md b/CLAUDE.md
@@ -8,6 +8,9 @@
 - データ生成: `pipeline/*.py`(`scripts/run_all.sh`)。生データは `raw/`(gitignore)、県別の原本は `pref_raw/`(コミット済み、出典は `pref_raw/SOURCES.json`)。
 - CSS は Tailwind+daisyUI を `npm run build:css` で `site/assets.css` にビルドし、**コミットする**(CI が最新かを検査)。HTML に新しいクラスを足したら必ず再ビルド。
 - 共有画像(OGP)は `scripts/build_ogp.py`(Noto Sans CJK 必要)。CIでは実行しない。データが変わったら `build_site.py` → `build_ogp.py` の順に実行して `site/og*` をコミット。
+- トップ(`pages/index.html`): 発見のカルーセル(`pages/insights.js` → `site/insights.js`)。スライドの数値は `{{...}}`、県別は `pref-map-data.js`、つながりは `net-mini.js`(build_site が出力)から JS で計算。
+- 3D: 県の立体地図は `pages/prefmap.js`(`data-prefmap="hero|page"`、トップは沖縄・奄美をはめ込み表示)。境界 `site/vendor/japan-pref.json` は地球地図日本(国土地理院)を `scripts/build_geo.py` で簡略化(非営利・出典明記が条件)。ライブラリは `site/vendor/` に同梱(MapLibre GL JS、3d-force-graph)。CDN は使わない。
+- 産業マップ: `pipeline/explorer_template.html` を build_site が共通シェルに入れて出力。`explorer.html?sel=66` で産業を選んだ状態で開く。
 - 更新履歴/RSS: `pages/changelog.json`(`scripts/add_changelog.py`)。ページや機能を足したら1件追記。
 
 ## 作業ルール
@@ -16,6 +19,9 @@
 - 文章: 事実(統計から確定できること)と、筆者の推測は分ける。推測には「仮説」と明記。政府が作成・保証したものではない旨を保つ。投資判断に使えるような書き方をしない。
 - 数値は手書きしない。生成物の文章中の数値は `{{...}}` かデータから生成。県別は需給バランス・費用側の検証(assert)を通すこと。
 - ユーザーは日本語。報告は簡潔に、結論から。
+
+- 確認: 画面の変更は Playwright で 1280px と 390px のスクリーンショットを撮って目で確認(WebGL は `--use-gl=swiftshader` で描ける)。サーバーは PID を控えて kill する(`pkill -f` は自分のシェルも止める)。
+- 実装の分担: 仕様が決まったコード実装はサブエージェント(Sonnet)に任せ、見た目の確認・手直し・マージ判断はこちらで行うと安い。
 
 ## 落とし穴
 - 政府サイトはサンドボックスから取れない。取得は GitHub Actions の `pref-fetch`(手動実行、`scripts/pref_pages.txt` / `pref_files.txt` を読み、結果を `pref-scratch` ブランチに置く)か、`monthly-update` の `fetch_latest.sh`。経産省は UA と Referer が必要。
@@ -26,4 +32,4 @@
 - 県の表は形式がバラバラ。37部門ベースなら `SOURCES.json` に列位置を書けば追加できる。合算が必要なもの(沖縄=397部門、北海道=独自38部門、兵庫・福岡=39部門)は個別処理がある。
 
 ## 未対応・候補
-Search Console の確認、アクセス解析(未導入)、Ruleset の「PR 必須」の再設定、他の都道府県、用語集への内部リンクの拡充。
+アクセス解析は Cloudflare Web Analytics を導入済み(2026-10、ユーザーが設定)。週次レポートの自動化(Cloudflare/Search Console の閲覧用トークンを GitHub Secrets に入れる必要あり)、Ruleset の「PR 必須」の再設定、残り23県(PDFのみの県の扱い)、用語集への内部リンクの拡充、スマホ実機での表示速度の確認。
